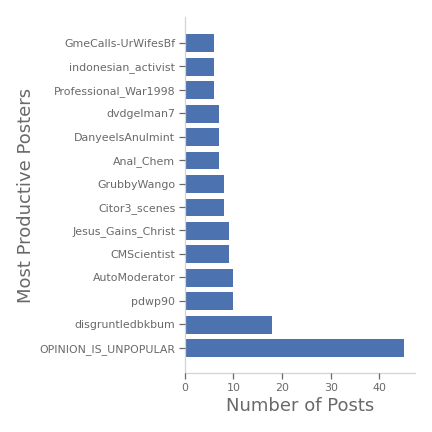
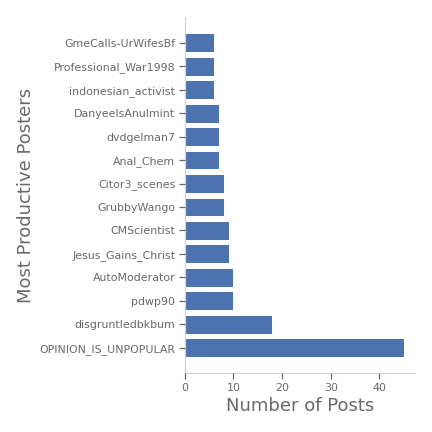
cleaning up code

diff --git a/README.md b/README.md
@@ -32,15 +32,15 @@ A total of 1322 submission authors are represented in the data. The plot below s
 | <a href=https://www.reddit.com/user/disgruntledbkbum/>disgruntledbkbum</a> | 18 |
 | <a href=https://www.reddit.com/user/pdwp90/>pdwp90</a> | 10 |
 | <a href=https://www.reddit.com/user/AutoModerator/>AutoModerator</a> | 10 |
-| <a href=https://www.reddit.com/user/CMScientist/>CMScientist</a> | 9 |
 | <a href=https://www.reddit.com/user/Jesus_Gains_Christ/>Jesus_Gains_Christ</a> | 9 |
-| <a href=https://www.reddit.com/user/Citor3_scenes/>Citor3_scenes</a> | 8 |
+| <a href=https://www.reddit.com/user/CMScientist/>CMScientist</a> | 9 |
 | <a href=https://www.reddit.com/user/GrubbyWango/>GrubbyWango</a> | 8 |
+| <a href=https://www.reddit.com/user/Citor3_scenes/>Citor3_scenes</a> | 8 |
 | <a href=https://www.reddit.com/user/Anal_Chem/>Anal_Chem</a> | 7 |
-| <a href=https://www.reddit.com/user/DanyeelsAnulmint/>DanyeelsAnulmint</a> | 7 |
 | <a href=https://www.reddit.com/user/dvdgelman7/>dvdgelman7</a> | 7 |
-| <a href=https://www.reddit.com/user/Professional_War1998/>Professional_War1998</a> | 6 |
+| <a href=https://www.reddit.com/user/DanyeelsAnulmint/>DanyeelsAnulmint</a> | 7 |
 | <a href=https://www.reddit.com/user/indonesian_activist/>indonesian_activist</a> | 6 |
+| <a href=https://www.reddit.com/user/Professional_War1998/>Professional_War1998</a> | 6 |
 | <a href=https://www.reddit.com/user/GmeCalls-UrWifesBf/>GmeCalls-UrWifesBf</a> | 6 |
 
 # Some Initial Observations
@@ -51,7 +51,7 @@ A total of 1322 submission authors are represented in the data. The plot below s
 # Technology Stack
 1. Python
 1. Jupyter Labs (pda/eda)
-1. MongoDB/Docker (database)
+1. WSBScraper/MongoDB/Docker (backend)
 1. Matplotlib (visualization)
 1. PWeave (CI/CD: this readme)
 
